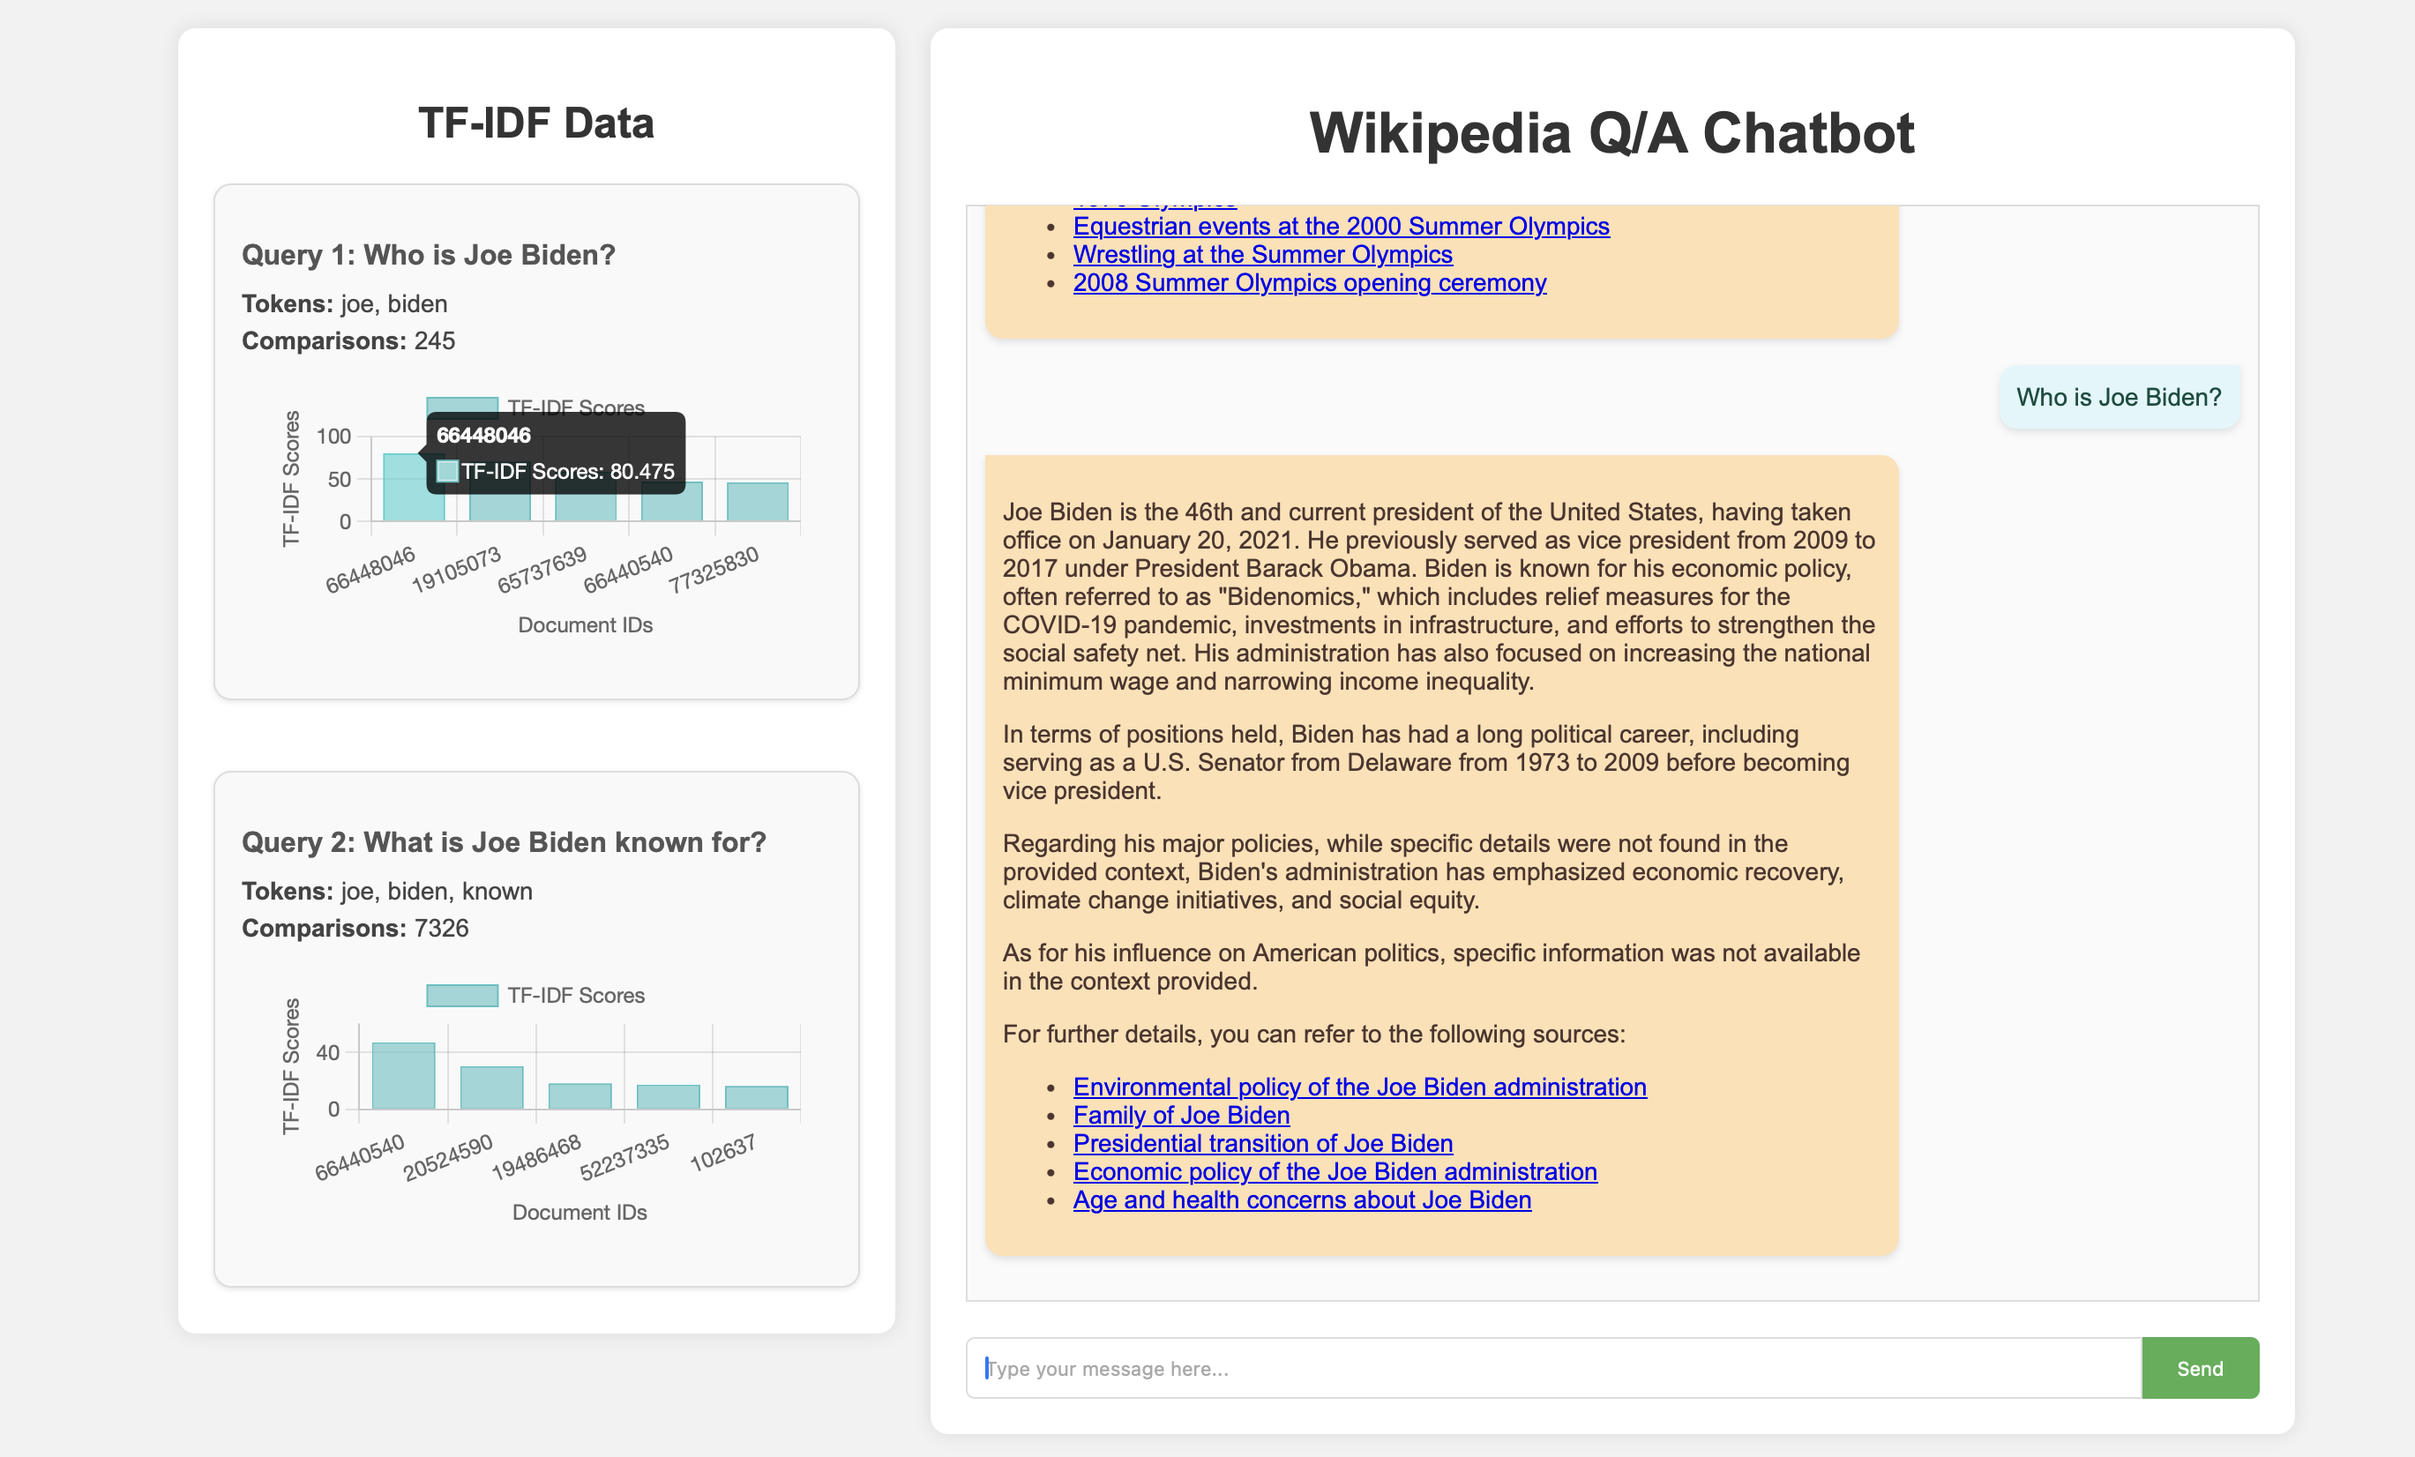
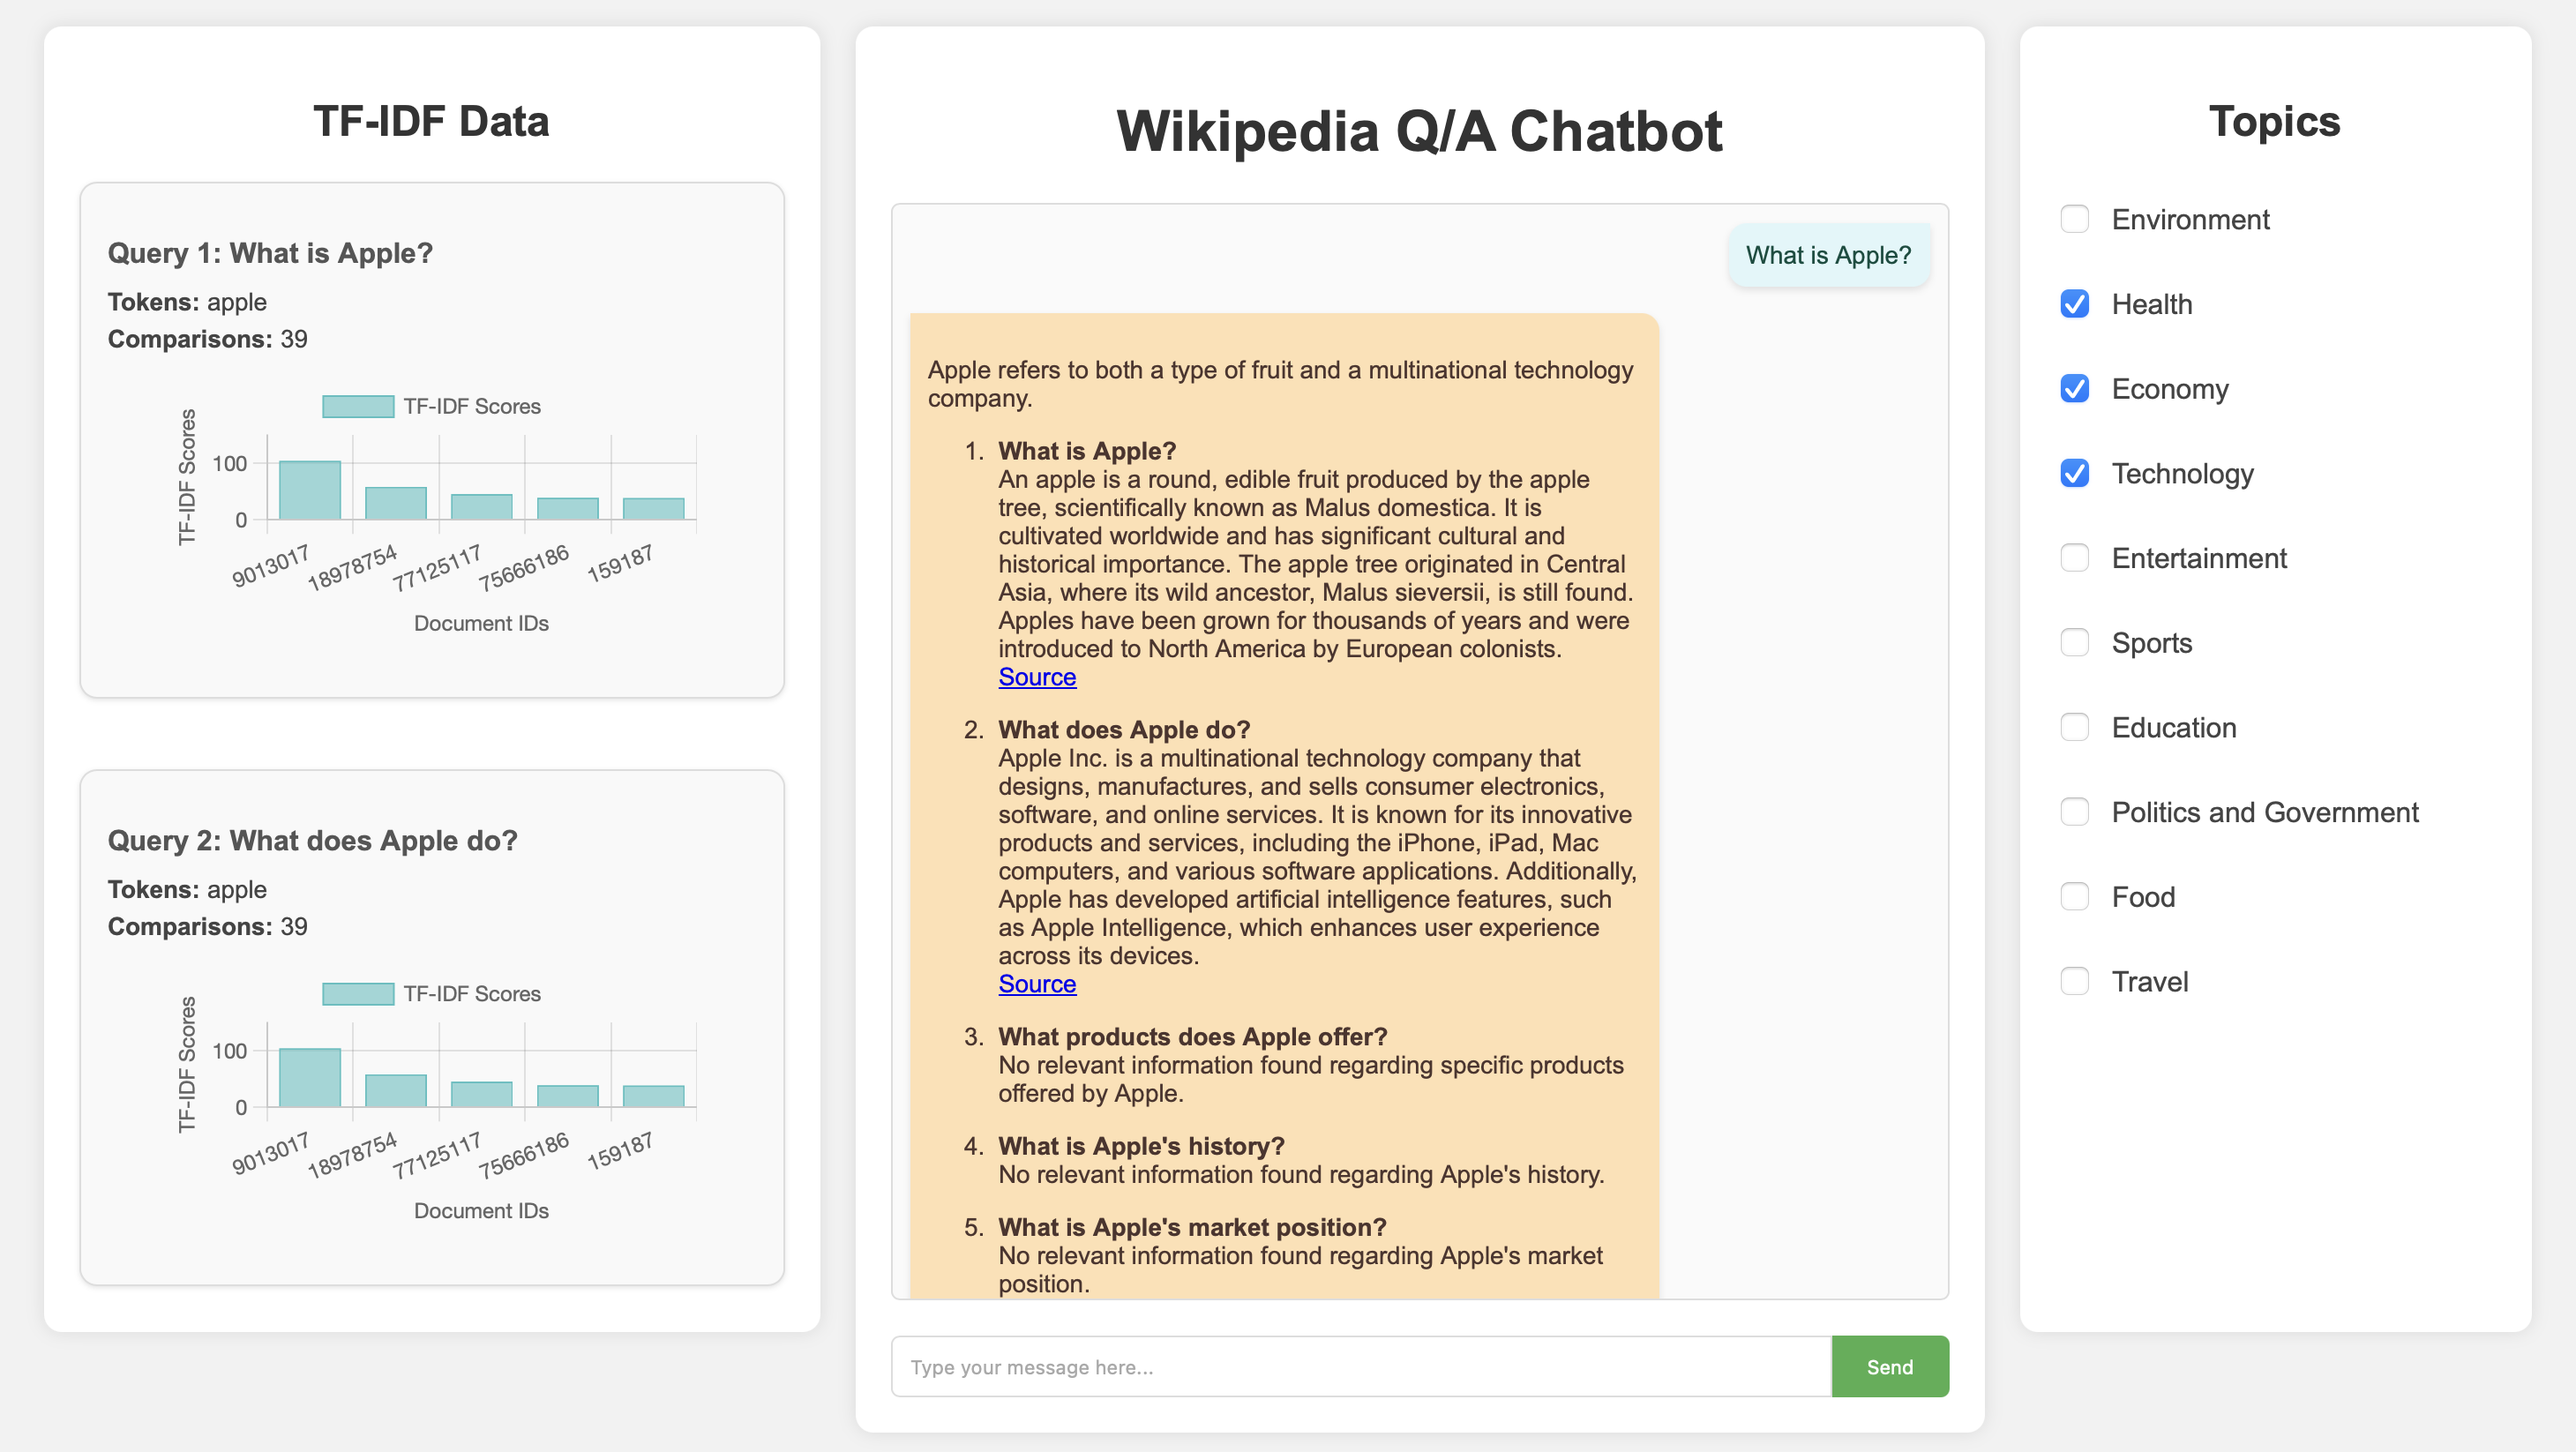
Integrated topic classifier functionality. Refined chat aesthetics

diff --git a/static/styles.css b/static/styles.css
@@ -17,7 +17,7 @@ body {
 
 /* Chat container styling */
 .chat-container {
-    width: 800px;
+    width: 600px;
     background-color: #fff;
     border-radius: 10px;
     box-shadow: 0 0 10px rgba(0, 0, 0, 0.1);
@@ -33,6 +33,7 @@ h1 {
     height: 600px;
     overflow-y: scroll;
     border: 1px solid #ddd;
+    border-radius: 5px;
     padding: 10px;
     margin-bottom: 20px;
     background-color: #fafafa;
@@ -150,4 +151,78 @@ h1 {
     height: 300px; /* Fixed height */
     width: 300px; /* Fixed width to make it square */
     max-width: 90%; /* Ensure chart fits within the TF-IDF entry */
+}
+
+/* Topics container styling */
+/* Topics container styling */
+.topics-box {
+    width: 250px; /* Slightly wider for better visibility */
+    background-color: #fff;
+    border-radius: 10px;
+    box-shadow: 0 0 10px rgba(0, 0, 0, 0.1);
+    padding: 20px;
+    overflow-y: auto; /* Enable vertical scrolling */
+    max-height: 700px; /* Limit the height of the Topics box */
+}
+
+.topics-box h2 {
+    text-align: center;
+    color: #333;
+    font-size: 24px;
+    font-weight: bold;
+    margin-bottom: 30px;
+}
+
+.topics-list {
+    display: flex;
+    flex-direction: column;
+    gap: 3px; /* Add more spacing between checkboxes */
+}
+
+.topics-list label {
+    display: flex;
+    align-items: center;
+    gap: 10px; /* Space between checkbox and label text */
+    font-size: 16px;
+    cursor: pointer; /* Pointer cursor for better interactivity */
+    color: #444;
+}
+
+.topics-list label:hover {
+    background-color: #f0f0f0; /* Highlight background on hover */
+    border-radius: 5px; /* Rounded edges on hover */
+    /*padding: 5px; /* Add padding to highlight area */
+}
+
+.topics-list input[type="checkbox"] {
+    width: 18px;
+    height: 18px;
+    cursor: pointer;
+}
+
+.topics-box::-webkit-scrollbar {
+    width: 8px;
+}
+
+.topics-box::-webkit-scrollbar-thumb {
+    background-color: #ccc; /* Gray scrollbar */
+    border-radius: 4px;
+}
+
+.topics-box::-webkit-scrollbar-thumb:hover {
+    background-color: #aaa; /* Darker gray on hover */
+}
+
+.topics-box::-webkit-scrollbar-track {
+    background-color: #f9f9f9; /* Light background for track */
+}
+
+
+/* Main container adjustments for three columns */
+.main-container {
+    display: grid;
+    grid-template-columns: 1fr 2fr 1fr; /* Three-column layout */
+    gap: 20px;
+    max-width: 1400px;
+    margin: 20px auto;
 }

diff --git a/app.py b/app.py
@@ -10,6 +10,7 @@ from langchain_community.chat_models import ChatOpenAI
 #from langchain.chat_models import ChatOpenAI
 from langchain.memory import ConversationBufferMemory
 from dotenv import load_dotenv
+from transformers import pipeline
 
 import re
 import string
@@ -50,6 +51,14 @@ SCRAPPED_DATA_PATH = 'final_scrapped.json'
 # Configuration for GPT-4o-mini via Ollama
 OLLAMA_MODEL = 'gpt-4o-mini'
 OPENAI_API_KEY = os.getenv('OPENAI_API_KEY')
+classifier = pipeline("zero-shot-classification", model="facebook/bart-large-mnli")
+
+candidate_labels = [
+        "Environment", "Health", "Economy", "Technology", 
+        "Entertainment", "Sports", "Education", "Politics and Government", 
+        "Food", "Travel"
+    ]
+
 class Preprocessor:
     def __init__(self):
         self.stop_words = set(stopwords.words('english'))
@@ -121,15 +130,15 @@ class DocumentRetriever:
             print(f"Error: The file '{path}' does not contain valid JSON.")
             return {}
 
-    def _daat_and_with_tfidf(self, terms):
+    def _daat_and_with_tfidf(self, terms, labels): # uses labels to filter
         inverted_index = self.inverted_index
-
         # Initialize postings lists for each term
         postings_lists = []
         for term in terms:
             if term in inverted_index:
                 postings = inverted_index[term]
-                postings_lists.append(set([posting['doc_id'] for posting in postings]))
+                postings_lists.append(set([posting['doc_id'] for posting in postings if posting['topic'].lower() in labels]))
+                #postings_lists.append(set([posting['doc_id'] for posting in postings]))
             else:
                 # If any term is not in the index, intersection is empty
                 return [], 0
@@ -156,15 +165,14 @@ class DocumentRetriever:
         sorted_docs = sorted(doc_tfidf_scores.items(), key=lambda x: x[1], reverse=True)
         return sorted_docs, total_comparisons
 
-    def retrieve_top_k(self, query, k=3):
+    def retrieve_top_k(self, query, labels, k=3):
         # Preprocess the query
         tokens = self.preprocessor.tokenize(query)
         if not tokens:
             print("No valid terms found in the query after preprocessing.")
             return []
-
         print(f"Processed Query Terms: {tokens}")
-        ranked_docs, comparisons = self._daat_and_with_tfidf(tokens)
+        ranked_docs, comparisons = self._daat_and_with_tfidf(tokens,labels)
 
         # Get top-k documents
         top_k_docs = ranked_docs[:k]
@@ -179,11 +187,21 @@ class DocumentRetriever:
 
         return summaries, comparisons, tokens
 
+
+    
+    
+    
+
 # Initialize the DocumentRetriever
 retriever = DocumentRetriever(INVERTED_INDEX_PATH, METADATA_PATH, SCRAPPED_DATA_PATH)
 
 # Initialize Langchain's Ollama LLM
 llm = ChatOpenAI(model=OLLAMA_MODEL, temperature=0.2)  # Adjust temperature as needed
+
+def classify_query_top_k(query,k):
+        result = classifier(query, candidate_labels, multi_label=True, hypothesis_template="This text is about {}.")
+        top_predictions = sorted(result["labels"], key=lambda x: result["scores"][result["labels"].index(x)], reverse=True)[:k]
+        return top_predictions
 
 # Paraphrase question
 def rephrase_question_with_history(chat_history, question):
@@ -309,15 +327,21 @@ def get_response():
     intent = intent.strip().lower()
     print(f"Determined Intent: {intent}")
     tfidf_data = []
+    labels_data = []
     if 'query' in intent:
         # Informational Query Handling
         standalone_question = rephrase_question_with_history(conversation_history, user_input)
         print(f'paraphrased question is: {standalone_question}')
         questions = standalone_question.split('|')
         total_context = ""
-        total_q = ""
+        temp = [q.strip() for q in questions]
+        total_q = " ".join(temp)
+        labels = classify_query_top_k(total_q,k=3)
+        labels = [label.lower() for label in labels]
+        print("Labels:",labels)
+        labels_data = labels
         for q in questions:
-            summaries, comparisons, tokens = retriever.retrieve_top_k(q, k=5)
+            summaries, comparisons, tokens = retriever.retrieve_top_k(q, labels, k=5)
             if summaries:
                 context = ""
                 for idx, doc in enumerate(summaries, start=1):
@@ -327,8 +351,9 @@ def get_response():
                     'query':q,
                     'tfidf_scores':summaries,
                     'comparisons':comparisons,
-                    'tokens':tokens
+                    'tokens':tokens 
                 })
+                #labels_data.append(labels)
             else:
                 context = "No relevant information found for this question\n"
             total_context += f"rephrased question:{q} \n context:{context}"
@@ -350,10 +375,11 @@ def get_response():
 
     # Append assistant response to memory
     memory.save_context({"assistant_output": answer}, {"assistant_output": answer})
-
+    print("Sending the labels: ",labels_data)
     return jsonify({
         'response': answer,
-        'tfidf_data':tfidf_data
+        'tfidf_data':tfidf_data,
+        'labels_data':labels_data
         })
 
 if __name__ == '__main__':

diff --git a/llama_app.py b/llama_app.py
@@ -199,7 +199,7 @@ def rephrase_question_with_history(chat_history, question):
     prompt = f"""
     <BEGIN CONVERSATION>
     <SYSTEM>
-    You are an assistant that rephrases follow-up questions to be standalone questions, containing only important query terms.
+    You are an assistant that uses chat history to rephrase the question to generate 5 standalone queries, that  rephrases follow-up questions to be standalone questions, containing only important query terms.
     </SYSTEM>
     
     <CONVERSATION HISTORY>
